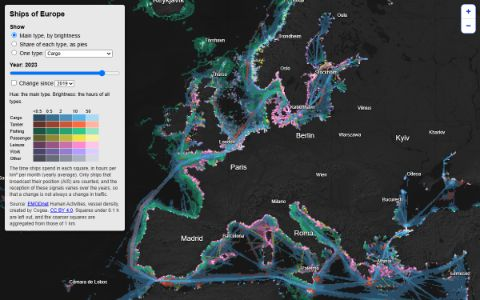
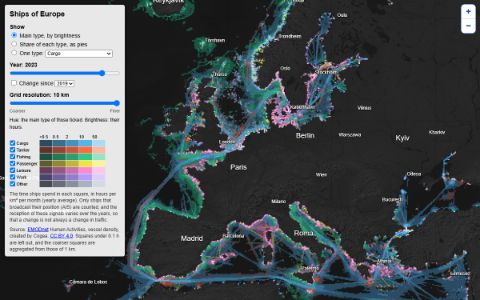
Demo of the ships: a slider for the grid resolution, and a checkbox for each type of the key, which hides its data from the map and greys its colours

Changed region(s): [[0.0, 0.3, 0.2812, 0.87]]

diff --git a/examples/demos/ships.html b/examples/demos/ships.html
@@ -60,6 +60,14 @@
                 color: #333;
             }
 
+            #resolutionScale {
+                display: flex;
+                justify-content: space-between;
+                font-size: 11px;
+                line-height: 1;
+                color: #555;
+            }
+
             #key {
                 margin-top: 8px;
                 font-size: 11px;
@@ -89,7 +97,8 @@
                 font-size: 12px;
             }
 
-            #year {
+            #year,
+            #resolution {
                 width: 100%;
                 margin: 2px 0;
             }
@@ -98,6 +107,26 @@
                 font-size: 12px;
                 line-height: 1.3;
                 color: #a33;
+            }
+
+            #key label {
+                cursor: pointer;
+                white-space: nowrap;
+            }
+
+            #key input {
+                margin: 0 3px 0 0;
+                vertical-align: -2px;
+            }
+
+            /* a type which is hidden: its colours are not on the map any more */
+            #key tr.off td {
+                filter: grayscale(1) blur(1.5px);
+                opacity: 0.4;
+            }
+
+            #key tr.off label {
+                color: #888;
             }
 
             #keyTitle {
@@ -152,6 +181,11 @@
                     <input id="compare" type="checkbox" /> Change since <select id="from"></select>
                 </label>
                 <div id="note"></div>
+            </fieldset>
+            <fieldset>
+                <legend>Grid resolution: <span id="resolutionLabel"></span></legend>
+                <input id="resolution" type="range" min="0" max="100" step="1" />
+                <div id="resolutionScale"><span>Coarser</span><span>Finer</span></div>
             </fieldset>
             <div id="keyTitle"></div>
             <table id="key"></table>
@@ -237,6 +271,8 @@
             let year = 2023
             let from = 2019
             let compare = false
+            // the groups which are not shown by the main type
+            const hiddenGroups = new Set()
 
             const comparing = () => compare && view !== 'pies' && (view === 'main' || typesWithChange.includes(type.code))
 
@@ -249,16 +285,21 @@
                 zoomExtent: [50, 8000],
                 viewExtent: [-1100000, 0, 7300000, 7500000],
                 backgroundColor: background,
-            }).addZoomButtons()
+                onZoomFun: () => showResolution(),
+                onZoomEndFun: () => showResolution(),
+            }).addZoomButtons({ onZoom: () => showResolution() })
 
             // ---------- the data: a dataset per year, made when it is needed, and one for the changes ----------
 
             // these cells have many values, and going through the years loads many tiles: they are kept in smaller number than by default
             gridviz.TiledGrid.maxCachedCells = 500000
 
+            const resolutions = [1000, 2000, 5000, 10000, 20000, 50000, 100000]
+            const changeResolutions = resolutions.slice(1)
+
             const datasetOfYear = (y) =>
                 new gridviz.MultiResolutionDataset(
-                    [1000, 2000, 5000, 10000, 20000, 50000, 100000],
+                    resolutions,
                     (resolution) =>
                         new gridviz.TiledGrid(map, dataURL + y + '/' + resolution + 'm/', {
                             worker: true,
@@ -278,7 +319,7 @@
 
             const yearColumns = years.flatMap((y) => ['a', ...typesWithChange].map((t) => t + ('' + y).slice(2)))
             const changeDataset = new gridviz.MultiResolutionDataset(
-                [2000, 5000, 10000, 20000, 50000, 100000],
+                changeResolutions,
                 (resolution) =>
                     new gridviz.TiledGrid(map, dataURL + 'change/' + resolution + 'm/', {
                         worker: true,
@@ -307,14 +348,23 @@
             const mainColors = {}
             for (const g of groups) for (let l = 0; l < levels.length; l++) mainColors[g.code + l] = levelColor(g, l)
 
+            // the hours of the groups which are shown
+            const shownTotal = (cell) => {
+                if (hiddenGroups.size === 0) return cell.total
+                let total = 0
+                for (const g of groups) if (!hiddenGroups.has(g)) total += cell[g.code]
+                return total
+            }
+
             const mainStyle = new gridviz.SquareColorCategoryWebGLStyle({
                 visible: () => view === 'main',
-                filter: (cell) => cell.total >= minValue,
+                filter: (cell) => shownTotal(cell) >= minValue,
                 color: mainColors,
                 code: (cell) => {
-                    let main = groups[0]
-                    for (const g of groups) if (cell[g.code] > cell[main.code]) main = g
-                    return main.code + levelOf(cell.total)
+                    let main
+                    for (const g of groups)
+                        if (!hiddenGroups.has(g) && (!main || cell[g.code] > cell[main.code])) main = g
+                    return main.code + levelOf(shownTotal(cell))
                 },
             })
 
@@ -384,12 +434,18 @@
 
             const hours = (v) => (v < 10 ? +v.toFixed(1) : Math.round(v)).toLocaleString('en')
             const cellInfoHTML = (cell) => {
+                // no tooltip for a cell which is not on the map
+                if (view === 'main' && shownTotal(cell) < minValue) return undefined
+                if (view === 'type' && cell[type.code] < minValue) return undefined
                 let html = '<div>' + year + ', hours per km² per month</div>'
-                for (const g of groups) if (cell[g.code] > 0) html += g.name + ': <b>' + hours(cell[g.code]) + '</b><br />'
+                for (const g of groups)
+                    if (cell[g.code] > 0 && !(view === 'main' && hiddenGroups.has(g)))
+                        html += g.name + ': <b>' + hours(cell[g.code]) + '</b><br />'
                 if (view === 'type') html += '<div>' + type.name + ': <b>' + hours(cell[type.code]) + '</b></div>'
                 return html
             }
             const changeInfoHTML = (cell) => {
+                if (Math.max(changeValue(cell, from), changeValue(cell, year)) < 0.5) return undefined
                 const name = view === 'type' ? type.name : 'All types'
                 return (
                     '<div>' + name + ', hours per km² per month</div>' +
@@ -410,15 +466,11 @@
                 const key = pies ? 'pies' : 'squares'
                 if (!layers[key])
                     layers[key] = new gridviz.GridLayer(layers.dataset, pies ? [pieStyle] : squaresStyles, {
-                        minPixelsPerCell: pies ? 22 : 1.2,
                         cellInfoHTML,
                     })
                 return layers[key]
             }
-            const changeLayer = new gridviz.GridLayer(changeDataset, [changeStyle], {
-                minPixelsPerCell: 1.2,
-                cellInfoHTML: changeInfoHTML,
-            })
+            const changeLayer = new gridviz.GridLayer(changeDataset, [changeStyle], { cellInfoHTML: changeInfoHTML })
 
             const backgroundLayer = new gridviz.BackgroundLayer(
                 gridviz_eurostat.giscoBackgroundLayer('GreyEarth', 7, 'EPSG3035', { filterColor: () => '#000000c0' })
@@ -428,6 +480,27 @@
             // ---------- the panel ----------
 
             const element = (id) => document.getElementById(id)
+
+            // The grid resolution slider sets minPixelsPerCell: its position goes from 0, the coarsest, to 100, the finest.
+            // A pie needs more pixels than a square, so the pies have their own range, and their own position of the slider.
+            const cellSizes = {
+                squares: { finest: 1.2, coarsest: 40, position: 100 },
+                pies: { finest: 10, coarsest: 120, position: 68 },
+            }
+            const cellSize = () => cellSizes[view === 'pies' ? 'pies' : 'squares']
+            const minPixelsPerCell = () => {
+                const c = cellSize()
+                return c.coarsest * Math.pow(c.finest / c.coarsest, c.position / 100)
+            }
+
+            // the resolution shown at the current zoom: as MultiResolutionDataset chooses it
+            function showResolution() {
+                const shown = comparing() ? changeResolutions : resolutions
+                const z = map.getZoom()
+                const min = minPixelsPerCell()
+                const r = shown.find((r) => r / min >= z) || shown[shown.length - 1]
+                element('resolutionLabel').textContent = r / 1000 + ' km'
+            }
 
             for (const g of groups) {
                 const optgroup = document.createElement('optgroup')
@@ -459,10 +532,21 @@
                     for (const g of groups) key.append(row([cell('td', undefined, g.color), cell('th', g.name)]))
                     return
                 }
-                keyTitle.textContent = 'Hue: the main type. Brightness: the hours of all types.'
+                keyTitle.textContent = 'Hue: the main type of those ticked. Brightness: their hours.'
                 key.append(row([cell('th'), ...levels.map((l, i) => cell('th', i ? l : '<' + levels[1]))]))
-                for (const g of groups)
-                    key.append(row([cell('th', g.name), ...levels.map((_, l) => cell('td', undefined, levelColor(g, l)))]))
+                for (const g of groups) {
+                    const label = document.createElement('label')
+                    const input = document.createElement('input')
+                    input.type = 'checkbox'
+                    input.checked = !hiddenGroups.has(g)
+                    input.dataset.group = g.code
+                    label.append(input, g.name)
+                    const name = cell('th')
+                    name.append(label)
+                    const tr = row([name, ...levels.map((_, l) => cell('td', undefined, levelColor(g, l)))])
+                    tr.classList.toggle('off', hiddenGroups.has(g))
+                    key.append(tr)
+                }
             }
 
             function update() {
@@ -484,13 +568,28 @@
                     notes.push('2024 is not as dense: the source lost satellite data from June.')
                 element('note').textContent = notes.join(' ')
 
+                element('resolution').value = cellSize().position
                 const layer = comparing() ? changeLayer : layerOfYear(year, view === 'pies')
+                layer.minPixelsPerCell = minPixelsPerCell()
                 map.layers = [backgroundLayer, layer, labelLayer]
+                showResolution()
                 drawKey()
                 map.redraw()
             }
 
-            element('panel').addEventListener('input', update)
+            element('panel').addEventListener('input', (e) => {
+                // a type of the key: only its row and the map change, so that the checkbox stays in place, and keeps the focus
+                if (e.target.dataset.group) {
+                    const g = groups.find((g) => g.code === e.target.dataset.group)
+                    if (e.target.checked) hiddenGroups.delete(g)
+                    else hiddenGroups.add(g)
+                    e.target.closest('tr').classList.toggle('off', !e.target.checked)
+                    map.redraw()
+                    return
+                }
+                if (e.target.id === 'resolution') cellSize().position = +e.target.value
+                update()
+            })
             update()
         </script>
     </body>
